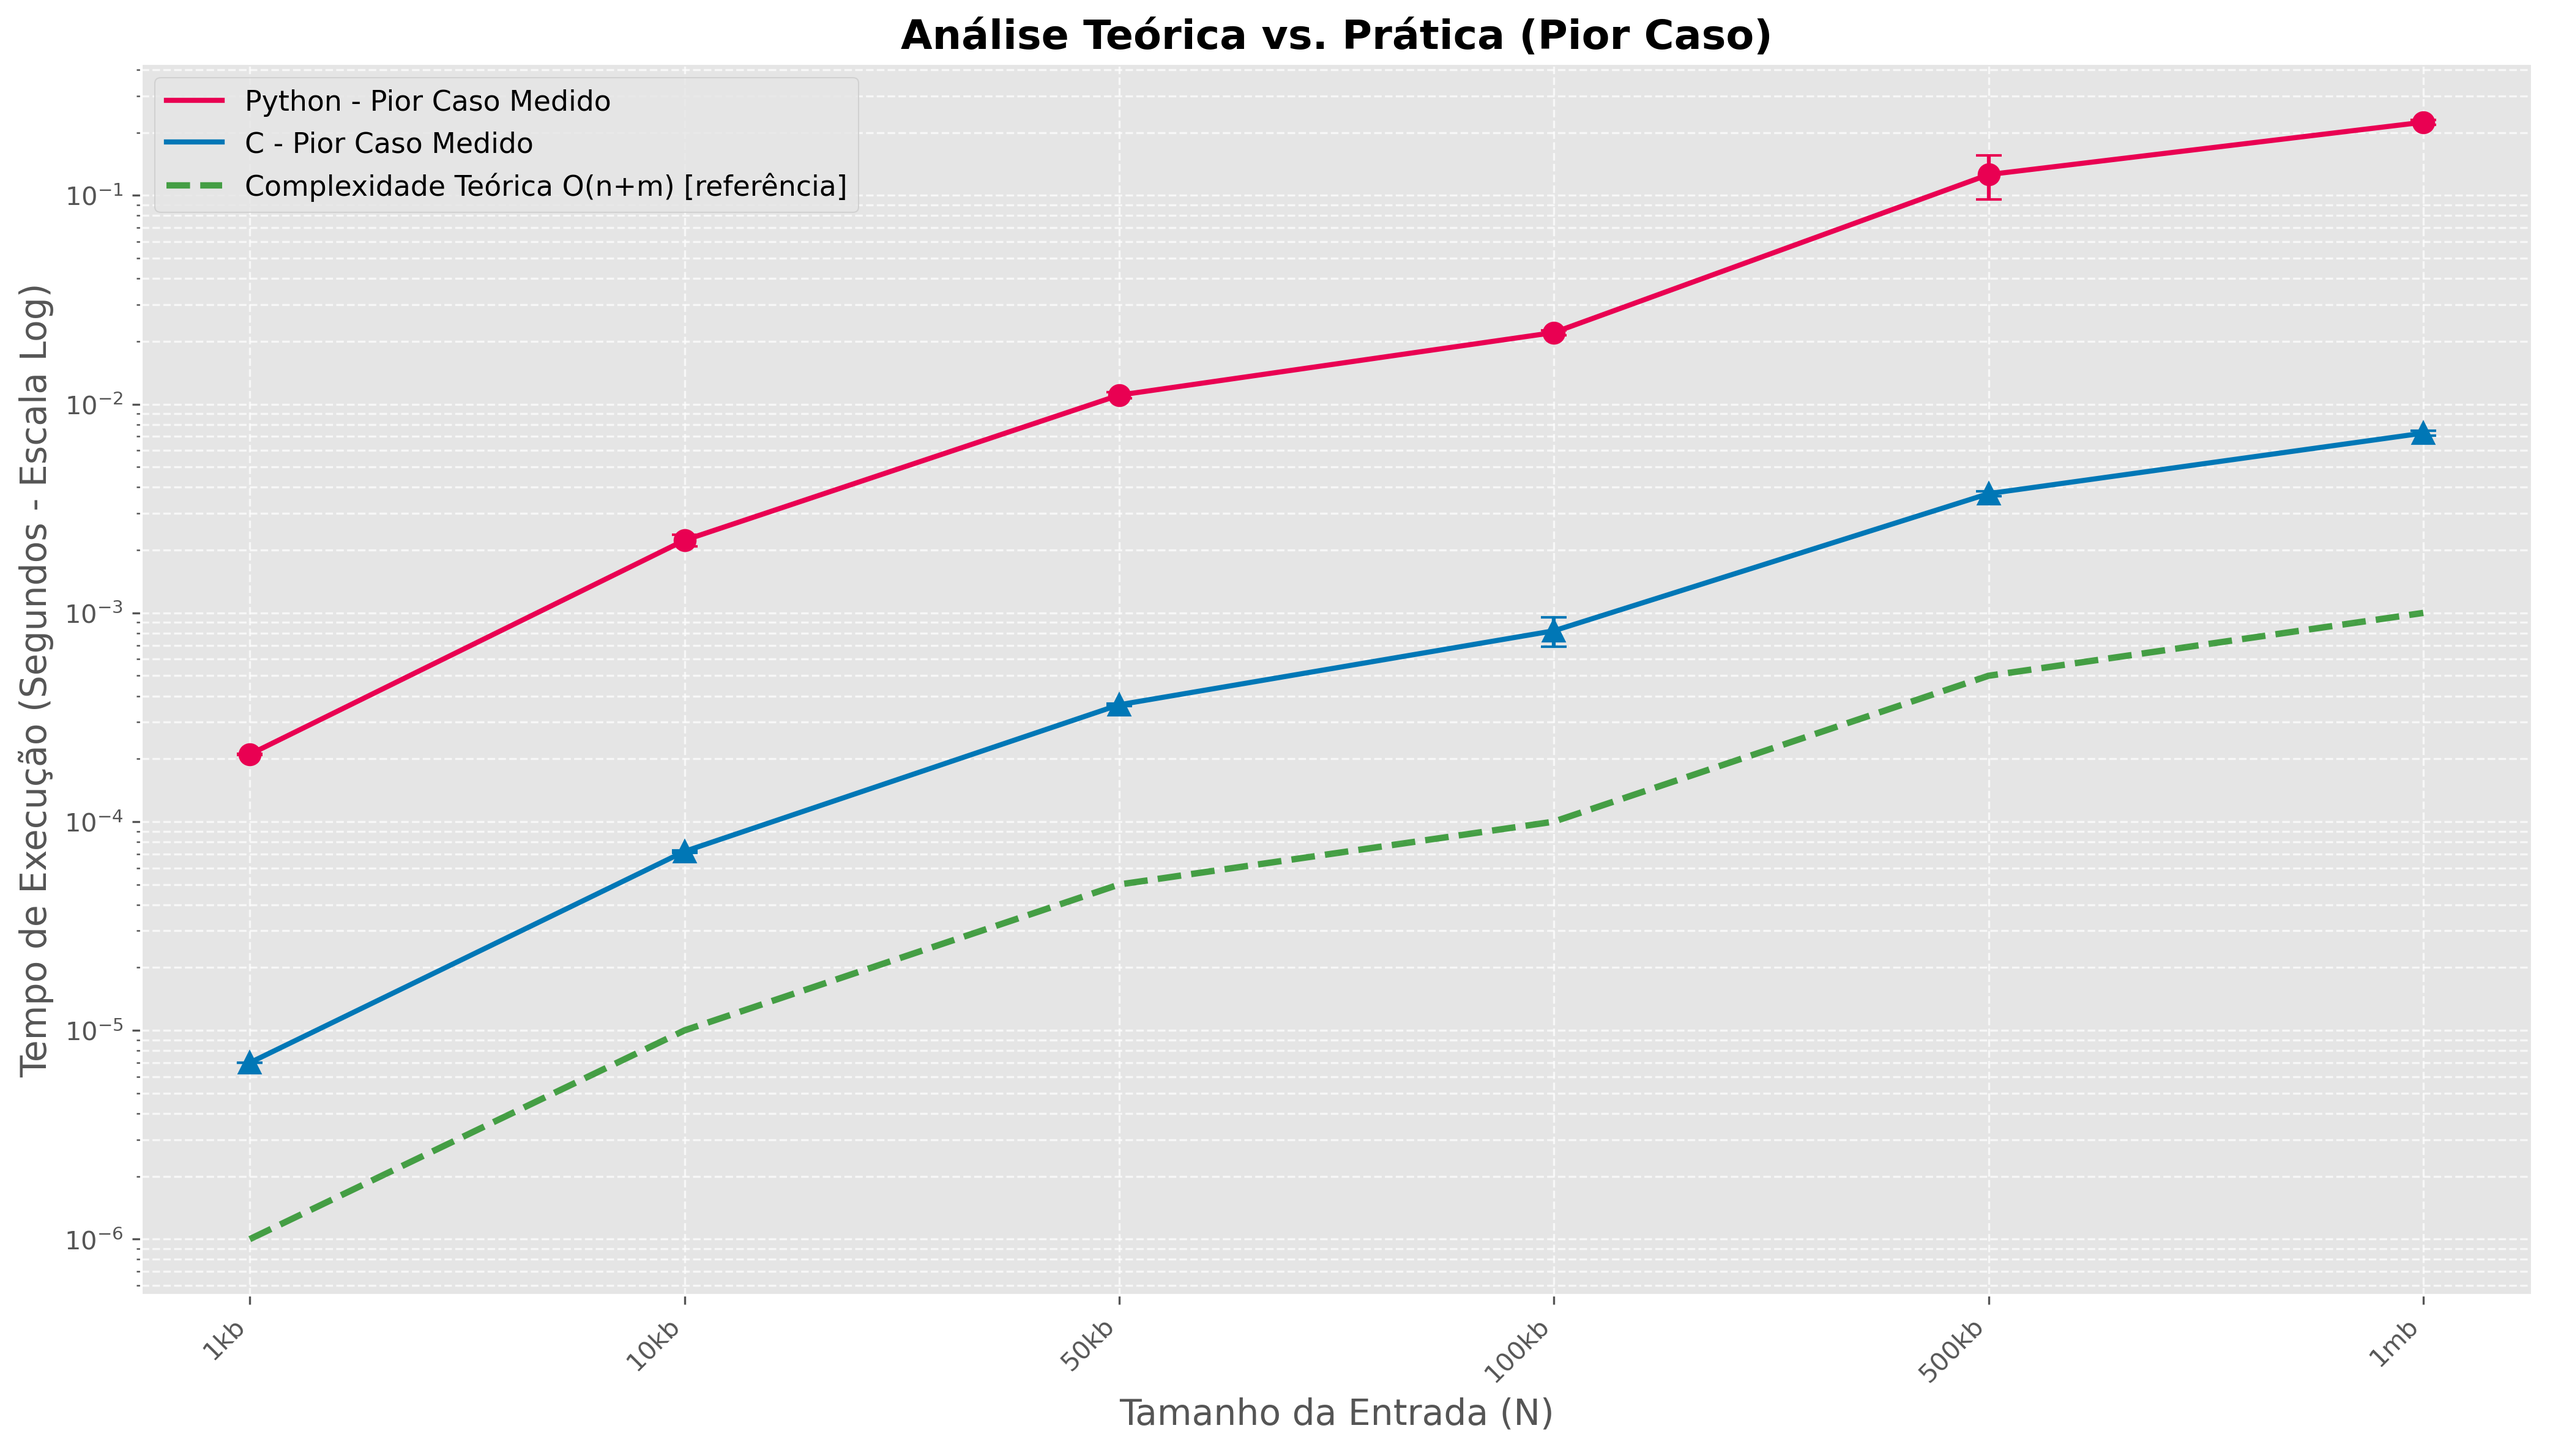
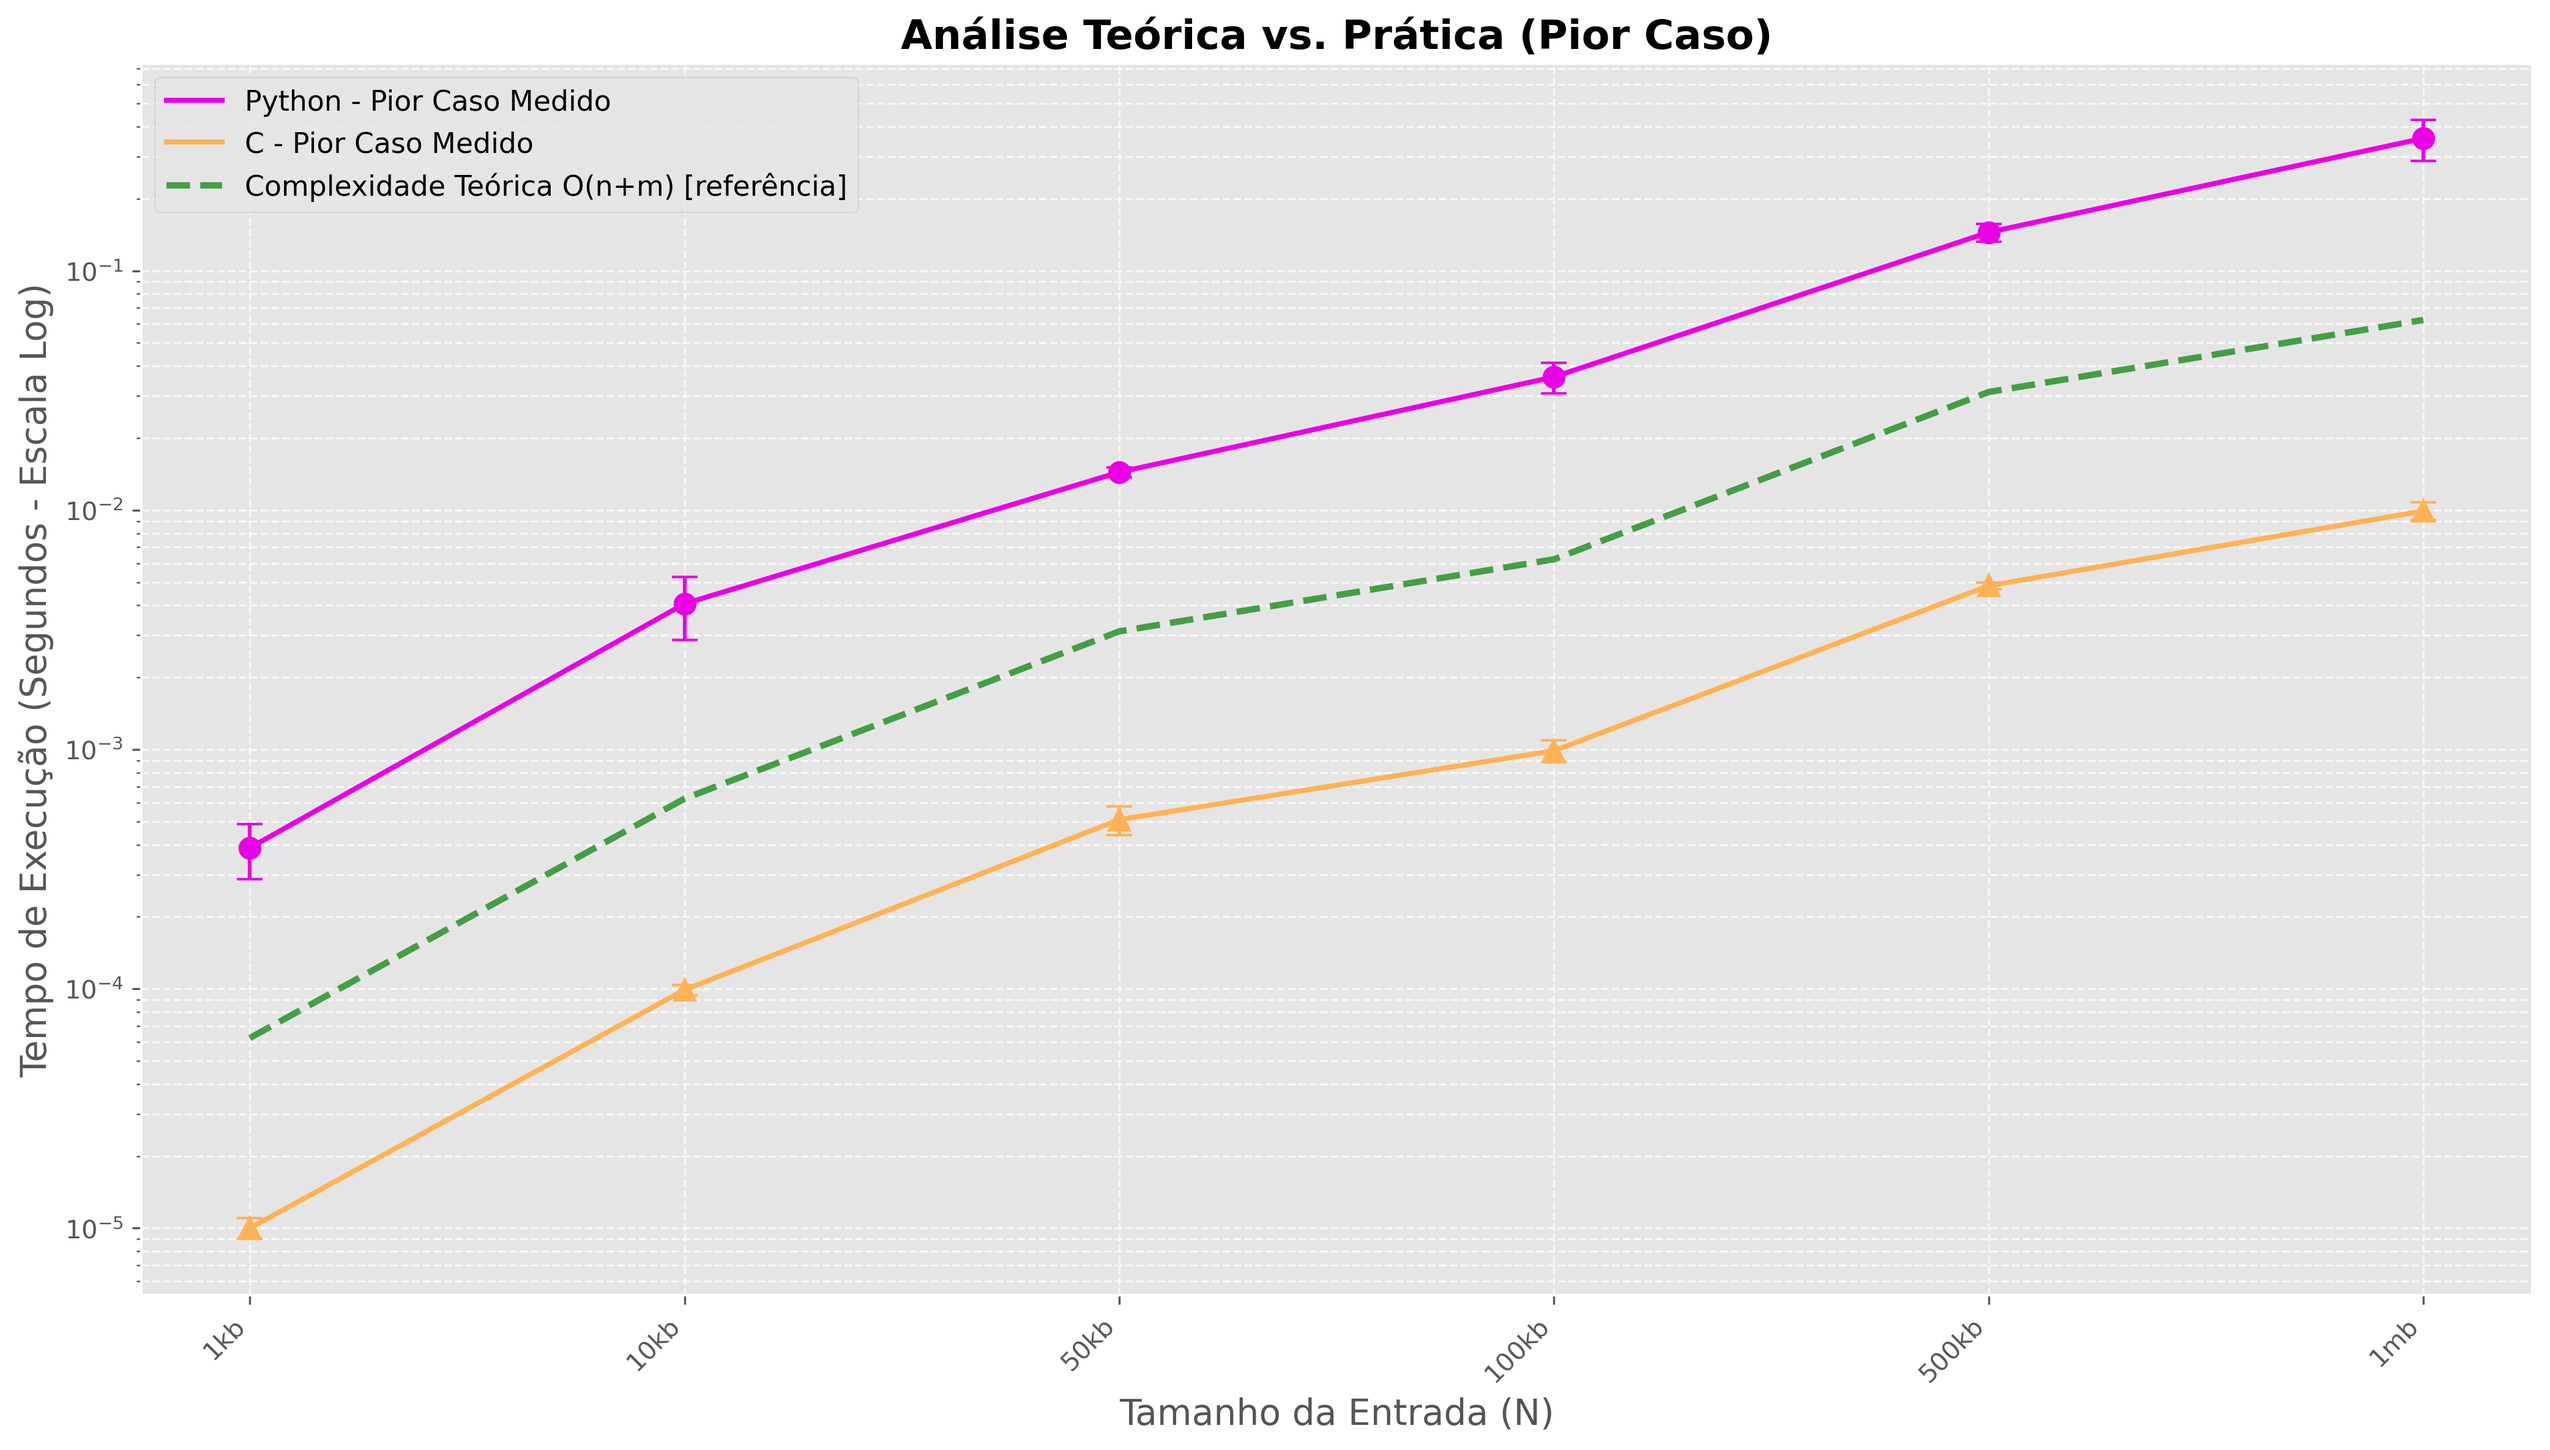
ajuste dos graficos e cores

diff --git a/comparacao_kmp.py b/comparacao_kmp.py
@@ -1,10 +1,3 @@
-"""
-Versão corrigida da análise KMP
-- Curva teórica INDEPENDENTE (não ajustada aos dados)
-- Opção de mostrar todos os casos no gráfico teórico
-- Melhor visualização da aderência à teoria
-"""
-
 import subprocess
 import re
 import pandas as pd
@@ -26,7 +19,7 @@ plt.rcParams["font.size"] = 10
 plt.style.use('ggplot')
 
 print("="*70)
-print("ANÁLISE COMPLETA - ALGORITMO KMP (VERSÃO CORRIGIDA)")
+print("ANÁLISE COMPLETA - ALGORITMO KMP")
 print("Curva teórica independente + visualização aprimorada")
 print("="*70)
 
@@ -51,7 +44,7 @@ saida_c = subprocess.check_output(
 )
 
 # ============================================================
-# EXTRAÇÃO DE DADOS (mesmo código)
+# EXTRAÇÃO DE DADOS
 # ============================================================
 
 def extrair_dados(logs, linguagem):
@@ -102,7 +95,7 @@ x_labels = [bytes_to_label(n) for n in tamanhos_unicos]
 x_ticks = np.arange(len(x_labels))
 
 # ===========================================================
-# OPÇÃO 1: APENAS PIOR CASO (como original)
+# APENAS PIOR CASO (substituido por todos os casos)
 # ===========================================================
 
 fig1, ax1 = plt.subplots(figsize=(14, 8))
@@ -115,10 +108,10 @@ for i, n in enumerate(tamanhos_unicos):
         y_python.append(dado['tempo_medio'].values[0])
         ax1.errorbar(i, dado['tempo_medio'].values[0], 
                     yerr=dado['desvio'].values[0],
-                    fmt='o', color='#e90052', capsize=5, markersize=8,
+                    fmt='o', color="#e900e5", capsize=5, markersize=8,
                     linewidth=2, elinewidth=1.5, zorder=3)
 
-ax1.plot(x_ticks, y_python, '-', color='#e90052', linewidth=2, 
+ax1.plot(x_ticks, y_python, '-', color='#e900e5', linewidth=2, 
         label='Python - Pior Caso Medido', zorder=2)
 
 # C - Pior Caso
@@ -129,22 +122,19 @@ for i, n in enumerate(tamanhos_unicos):
         y_c.append(dado['tempo_medio'].values[0])
         ax1.errorbar(i, dado['tempo_medio'].values[0],
                     yerr=dado['desvio'].values[0],
-                    fmt='^', color='#0077b6', capsize=5, markersize=8,
+                    fmt='^', color="#ffb255", capsize=5, markersize=8,
                     linewidth=2, elinewidth=1.5, zorder=3)
 
-ax1.plot(x_ticks, y_c, '-', color='#0077b6', linewidth=2,
+ax1.plot(x_ticks, y_c, '-', color='#ffb255', linewidth=2,
         label='C - Pior Caso Medido', zorder=2)
 
 # ============================================================
-# CURVA TEÓRICA CORRIGIDA (INDEPENDENTE DOS DADOS!)
+# CURVA TEÓRICA
 # ============================================================
 
 # ============================================================
 # CÁLCULO DA CONSTANTE TEÓRICA (INDEPENDENTE MAS REALISTA)
 # ============================================================
-
-# Método 1: Constante fixa arbitrária (totalmente independente)
-# CONSTANTE_BASE = 5e-5  # 50 microssegundos para n=1000
 
 # Método 2: Média geométrica entre C e Python (mais visual)
 primeiro_c = df[(df['linguagem']=='C') & (df['tipo_caso']=='PIOR CASO') & (df['n']==tamanhos_unicos[0])]
@@ -184,19 +174,18 @@ plt.savefig('analise_teorica_vs_pratica.png', dpi=300, bbox_inches='tight')
 plt.show()
 
 # ===========================================================
-# OPÇÃO 2: TODOS OS CASOS (NOVO!)
+# TODOS OS CASOS
 # ===========================================================
 
 fig2, ax2 = plt.subplots(figsize=(14, 8))
 
-# Cores distintas para cada combinação linguagem + caso
 cores_config = {
-    ('Python', 'MELHOR CASO'): ('#ff6b6b', 'o', '--'),    # Vermelho claro
-    ('Python', 'CASO MEDIO'): ('#e90052', 's', '-'),      # Vermelho médio (original)
-    ('Python', 'PIOR CASO'): ('#a8003d', '^', '-'),       # Vermelho escuro
-    ('C', 'MELHOR CASO'): ('#4ecdc4', 'o', '--'),         # Ciano claro
-    ('C', 'CASO MEDIO'): ('#0077b6', 's', '-'),           # Azul médio (original)
-    ('C', 'PIOR CASO'): ('#023e8a', '^', '-'),            # Azul escuro
+    ('Python', 'MELHOR CASO'): ('#f9c74f', 'o', '--'), 
+    ('Python', 'CASO MEDIO'): ('#f9844a', 's', '-'), 
+    ('Python', 'PIOR CASO'): ('#f94144', '^', '-'), 
+    ('C', 'MELHOR CASO'): ('#90dbf4', 'o', '--'), 
+    ('C', 'CASO MEDIO'): ('#577590', 's', '-'),
+    ('C', 'PIOR CASO'): ('#003049', '^', '-'),
 }
 
 # Plotar Python e C para todos os casos
@@ -224,7 +213,7 @@ ax2.plot(x_ticks, curva_teorica_corrigida, '--', color='green', linewidth=3,
         label='Complexidade Teórica O(n+m)', zorder=1, alpha=0.6)
 
 ax2.set_yscale('log')
-ax2.set_title('Análise Completa: Todos os Casos vs. Teoria',
+ax2.set_title('Análise de Performance KMP: Todos os Casos vs. Teoria',
              fontsize=16, fontweight='bold')
 ax2.set_xlabel('Tamanho da Entrada (N)', fontsize=14)
 ax2.set_ylabel('Tempo de Execução (Segundos - Escala Log)', fontsize=14)
@@ -278,7 +267,7 @@ print("- R² > 0.95: Forte aderência à complexidade linear O(n+m)")
 print("- R² < 0.90: Possível desvio (overhead, cache, GC, etc.)")
 print("="*70)
 
-print("\n✅ Arquivos gerados:")
+print("\nArquivos gerados:")
 print("  1. analise_teorica_vs_pratica.png (curva teórica independente)")
 print("  2. analise_todos_casos_vs_teoria.png (visão completa)")
 print("="*70)
